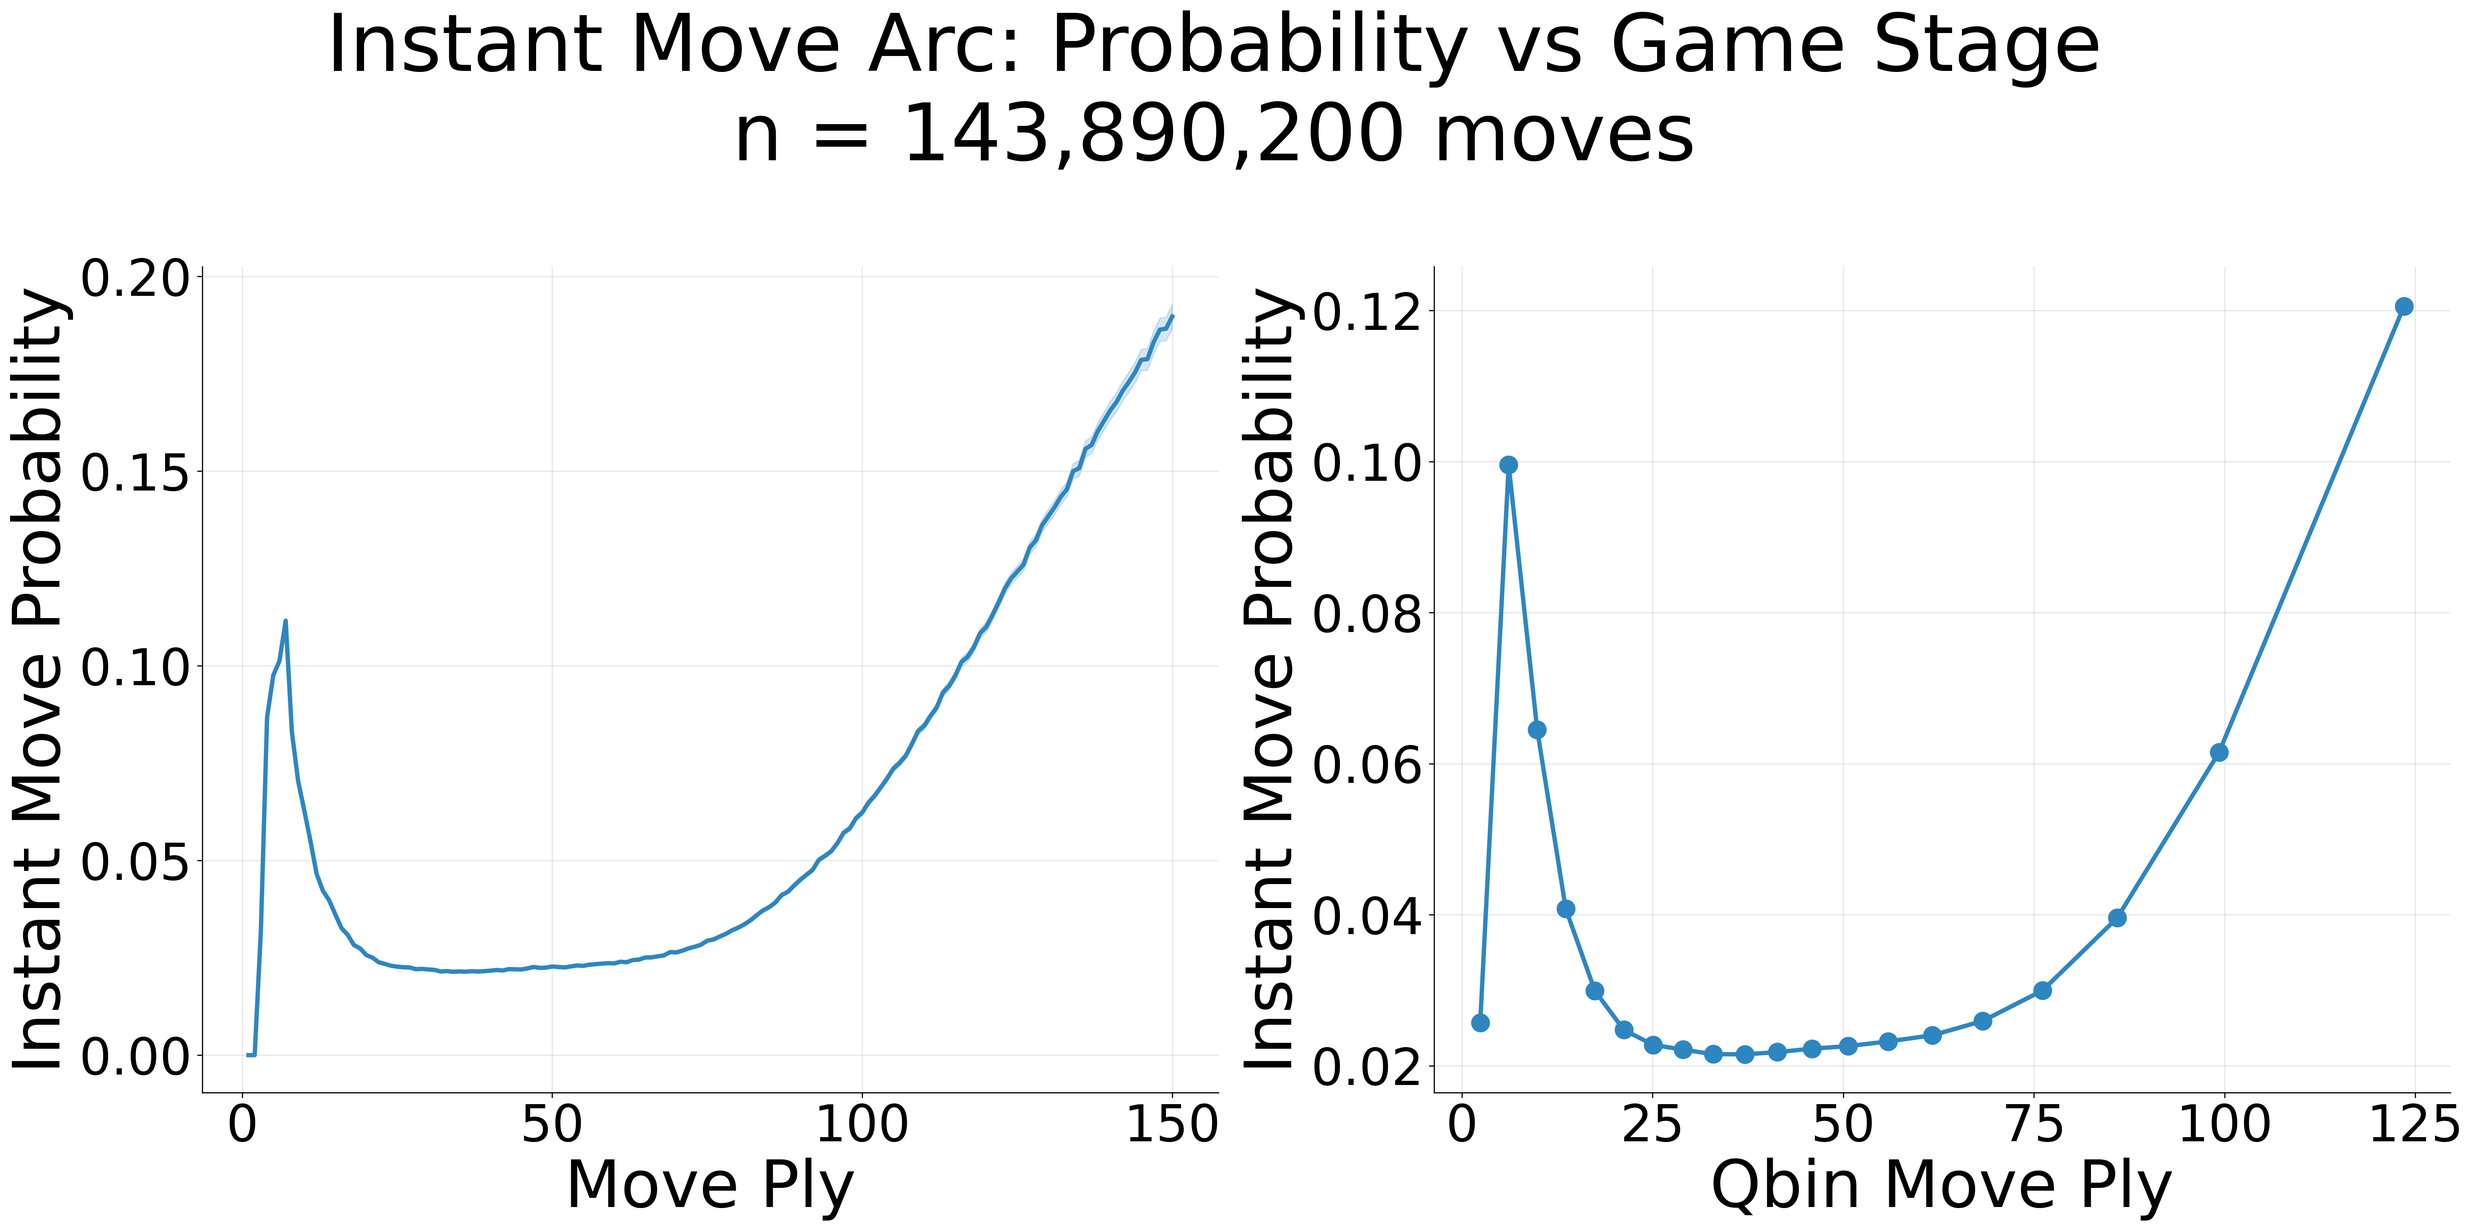
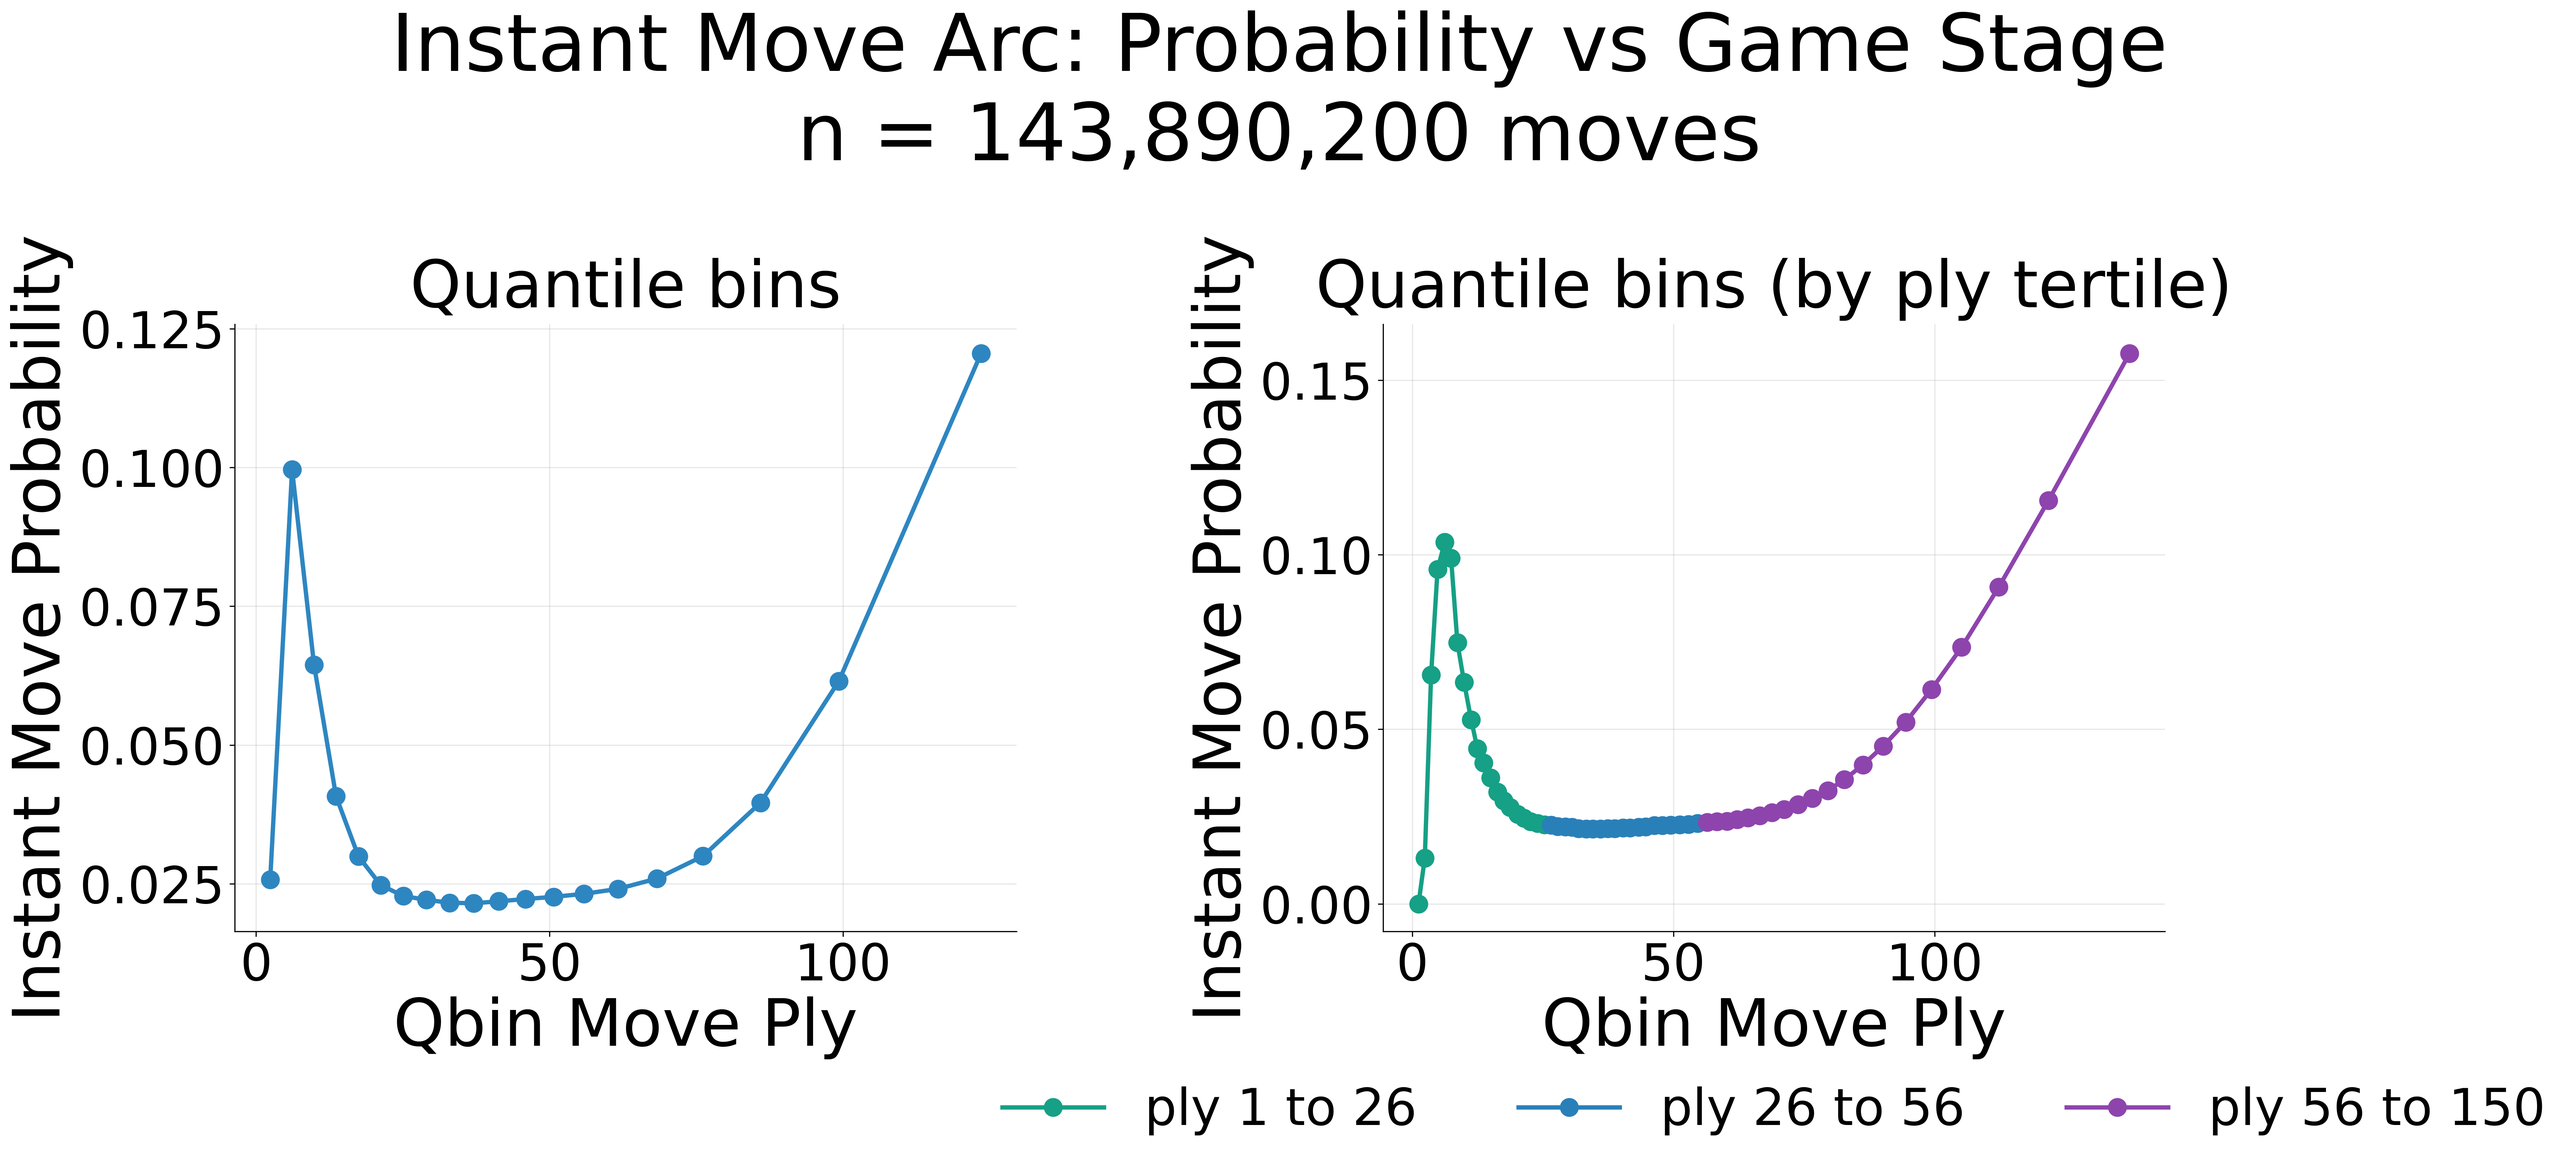
human_analytics dashboards: quantile-only 1×2 layout, legend below plot
Plot changes (utils/analysis.py Analyzer.save_dashboard):
  - Every dashboard is now a fixed 1×2: Quantile bins (global, left) and
    Quantile bins by ply tertile (right). Raw-trend panels removed entirely.
  - Removed the now-dead raw-trend + scatter machinery: plot_raw_trend,
    plot_raw_trend_tertile_segmented, plot_scatter, the raw_trend_df /
    raw_trend_tertile_df / sample_df SQL (incl. the costly 100k-row scatter
    sample that ran on every dashboard), and the layout param + 1x3/1x2/2x2
    branching. Quantile×quantile heatmap option retained.
  - Tertile legend: dropped the "Tertile N" prefix → just "ply <min> to <max>";
    moved the legend below the right panel (ncol = #tertiles, frameless).
  - Dropped layout="1x2" from the two ply-on-x callers (ply_premove,
    movetime_analysis) since the layout is now fixed.

Regenerated all 10 Analyzer dashboards + added mq_vs_logrt.png (the renamed
MQ↔logRT plot replacing the removed mq_vs_clock). voc_budget figures (scatter /
corr matrices, engine-heavy, separate analysis) left unchanged.

human_analytics suite: 29 passed.

diff --git a/human_analytics/utils/analysis.py b/human_analytics/utils/analysis.py
@@ -23,8 +23,6 @@ from .plots import (
     get_isoluminant_cmap,
     plot_heatmap_with_alpha,
     plot_qbin_stats,
-    plot_raw_trend,
-    plot_subset_scatterplot,
 )
 
 _PLY_TERTILE_LEGEND_FALLBACK = {1: "Tertile 1", 2: "Tertile 2", 3: "Tertile 3"}
@@ -114,10 +112,7 @@ class Analyzer:
         # Results to be populated by _run_sql_pipeline()
         self.n_games = 0
         self.n_moves = 0
-        self.raw_trend_df = None
         self.quantile_df = None
-        self.sample_df = None
-        self.raw_trend_tertile_df = None
         self.quantile_tertile_df = None
         self.ply_tertile_bounds_df = None
 
@@ -156,18 +151,7 @@ class Analyzer:
             ORDER BY tertile_id
         """).df()
 
-        # 3. Compute Raw Trend Data
-        self.raw_trend_df = self.conn.execute("""
-            SELECT
-                _x_transformed as x_val,
-                avg(_y_transformed) as mean_y,
-                stddev(_y_transformed) as std_y,
-                count(*) as n
-            FROM _analyzer_view
-            GROUP BY _x_transformed
-        """).df()
-
-        # 4. Compute Quantile-Binned Data (global ranks)
+        # 3. Compute Quantile-Binned Data (global ranks)
         self.quantile_df = self.conn.execute(f"""
             SELECT
                 qbin,
@@ -180,17 +164,6 @@ class Analyzer:
                 FROM _analyzer_view
             )
             GROUP BY qbin
-        """).df()
-
-        self.raw_trend_tertile_df = self.conn.execute("""
-            SELECT
-                ply_tertiles as tertile_id,
-                _x_transformed as x_val,
-                avg(_y_transformed) as mean_y,
-                stddev(_y_transformed) as std_y,
-                count(*) as n
-            FROM _analyzer_view
-            GROUP BY ply_tertiles, _x_transformed
         """).df()
 
         self.quantile_tertile_df = self.conn.execute(f"""
@@ -213,14 +186,6 @@ class Analyzer:
             )
             GROUP BY tertile_id, qbin
             ORDER BY tertile_id, qbin
-        """).df()
-
-        # 5. Pull sample for scatter visualization (sampled in SQL for memory efficiency)
-        print("Sampling moves for scatterplot...")
-        self.sample_df = self.conn.execute("""
-            SELECT _x_transformed as x, _y_transformed as y
-            FROM _analyzer_view
-            USING SAMPLE 100000 ROWS
         """).df()
 
         if self.quantile_heatmap_row:
@@ -246,12 +211,6 @@ class Analyzer:
                 ON x_qbin USING count(*) GROUP BY row_qbin
             """).df().set_index("row_qbin")
 
-    def _tertile_sorted_ids(self) -> list:
-        df = self.raw_trend_tertile_df
-        if df.empty:
-            return []
-        return sorted(df["tertile_id"].unique().tolist())
-
     def _ply_tertile_legend_label(self, tertile_id: int) -> str:
         """Human-readable legend segment from observed move_ply bounds for this tertile."""
         df = self.ply_tertile_bounds_df
@@ -263,45 +222,9 @@ class Analyzer:
         lo_raw = match.iloc[0]["min_ply"]
         hi_raw = match.iloc[0]["max_ply"]
         lo, hi = int(lo_raw), int(hi_raw)
-        tid = int(tertile_id)
         if lo == hi:
-            return f"Tertile {tid} (ply = {lo})"
-        return f"Tertile {tid} ({lo} ≤ ply ≤ {hi})"
-
-    def plot_raw_trend_tertile_segmented(self, ax, *, min_n: int = 5):
-        """
-        Mean Y vs X (distinct transformed X), one curve + CI per ply tertile, all on ``ax``.
-        Legend text includes observed ``move_ply`` bounds per tertile.
-        """
-        if self.raw_trend_tertile_df.empty:
-            raise ValueError(
-                "Ply-tertile-segmented raw trend needs non-empty data with column ply_tertiles "
-                "(run preprocess on move tables)."
-            )
-        tertiles = self._tertile_sorted_ids()
-        x_label = self.x.label + (" (log)" if self.x.is_log else "")
-        y_label = (r"$\log(" + self.y.label + ")$") if self.y.is_log else self.y.label
-
-        for t in tertiles:
-            subset = self.raw_trend_tertile_df[self.raw_trend_tertile_df["tertile_id"] == t]
-            color = PHASE_COLORS.get(int(t), MAIN_COLOR)
-            lbl = self._ply_tertile_legend_label(int(t))
-            plot_raw_trend(
-                ax,
-                subset,
-                x_col="x_val",
-                y_col="mean_y",
-                std_col="std_y",
-                n_col="n",
-                x_label=x_label,
-                y_label=y_label,
-                color=color,
-                label=lbl,
-                min_n=min_n,
-                show_legend=False,
-                ci_legend_label=None,
-            )
-        ax.legend(fontsize=FONT_SIZE_TICKS)
+            return f"ply {lo}"
+        return f"ply {lo} to {hi}"
 
     def plot_quantile_bins_tertile_segmented(self, ax, *, min_n: int = 1):
         """
@@ -335,7 +258,13 @@ class Analyzer:
                 show_legend=False,
                 ci_legend_label=None,
             )
-        ax.legend(fontsize=FONT_SIZE_TICKS)
+        ax.legend(
+            fontsize=FONT_SIZE_TICKS,
+            loc="upper center",
+            bbox_to_anchor=(0.5, -0.18),
+            ncol=len(tertiles),
+            frameon=False,
+        )
 
     def plot_quantile_heatmap(self, ax, *, alpha_mode: str = "log"):
         """
@@ -366,24 +295,6 @@ class Analyzer:
         ax.set_ylabel(f"{self._quantile_heatmap_row_label} quantile bin", fontsize=FONT_SIZE_LABEL, labelpad=48)
         ax.set_title("Quantile × quantile heatmap", fontsize=FONT_SIZE_LABEL, pad=12)
 
-    def plot_raw_trend(self, ax):
-        """Plots the raw trend of mean Y vs X."""
-        x_label = self.x.label + (" (log)" if self.x.is_log else "")
-        y_label = (r"$\log(" + self.y.label + ")$") if self.y.is_log else self.y.label
-
-        plot_raw_trend(
-            ax,
-            self.raw_trend_df,
-            x_col="x_val",
-            y_col="mean_y",
-            std_col="std_y",
-            n_col="n",
-            x_label=x_label,
-            y_label=y_label,
-            min_n=5,
-            show_legend=False,
-        )
-
     def plot_quantile_bins(self, ax):
         """Plots the trend across equal-sized quantile bins."""
         y_label = (r"$\log(" + self.y.label + ")$") if self.y.is_log else self.y.label
@@ -396,21 +307,6 @@ class Analyzer:
             y_label=y_label,
             normalized=False,
             show_legend=False,
-        )
-
-    def plot_scatter(self, ax, n_points=10000):
-        """Plots a density scatterplot."""
-        x_label = self.x.label + (" (log)" if self.x.is_log else "")
-        y_label = (r"$\log(" + self.y.label + ")$") if self.y.is_log else self.y.label
-
-        plot_subset_scatterplot(
-            ax,
-            self.sample_df,
-            x_col="x",
-            y_col="y",
-            x_label=x_label,
-            y_label=y_label,
-            n=n_points,
         )
 
     def save_quantile_heatmap_figure(
@@ -439,7 +335,6 @@ class Analyzer:
     def save_dashboard(
         self,
         output_path,
-        layout="2x2",
         *,
         include_quantile_heatmap: bool = False,
         heatmap_alpha_mode: str = "log",
@@ -447,46 +342,27 @@ class Analyzer:
     ):
         """Generates and saves a publication-ready dashboard.
 
-        ``2x2`` (default): global raw trend | global quantile bins; then the same pair by
-        ``ply_tertiles`` (overlaid tertiles). ``1x3`` keeps raw | quantile | scatter. ``1x2`` is
-        raw | quantile only.
+        Fixed 1×2 layout: **Quantile bins** (global ranks, left) and **Quantile bins
+        (by ply tertile)** (ntile recomputed within each ``ply_tertiles`` segment, right).
+        Raw-trend and scatter panels were removed — quantile binning is the canonical view.
 
-        Set ``include_quantile_heatmap=True`` (with ``layout="2x2"`` only, and
-        ``quantile_heatmap_row='...'`` on construction) to also write the quantile×quantile
-        heatmap as a **separate** PNG next to the dashboard (by default:
-        ``<stem>_quantile_heatmap<ext>`` beside ``output_path``). Pass ``heatmap_output_path``
-        to override the heatmap destination.
+        Set ``include_quantile_heatmap=True`` (with ``quantile_heatmap_row='...'`` on
+        construction) to also write the quantile×quantile heatmap as a **separate** PNG
+        next to the dashboard (default ``<stem>_quantile_heatmap<ext>``). Pass
+        ``heatmap_output_path`` to override the heatmap destination.
         """
         apply_poster_style()
 
-        if include_quantile_heatmap and layout != "2x2":
-            raise ValueError("include_quantile_heatmap is only supported with layout='2x2'.")
         if include_quantile_heatmap and not self.quantile_heatmap_row:
             raise ValueError(
                 "include_quantile_heatmap requires Analyzer(..., quantile_heatmap_row='<column>')."
             )
 
-        if layout == "2x2":
-            fig, axes = plt.subplots(2, 2, figsize=(36, 26))
-            self.plot_raw_trend(axes[0, 0])
-            self.plot_quantile_bins(axes[0, 1])
-            self.plot_raw_trend_tertile_segmented(axes[1, 0])
-            self.plot_quantile_bins_tertile_segmented(axes[1, 1])
-            axes[0, 0].set_title("Raw trend", fontsize=FONT_SIZE_LABEL, pad=12)
-            axes[0, 1].set_title("Quantile bins", fontsize=FONT_SIZE_LABEL, pad=12)
-            axes[1, 0].set_title("Raw trend (by ply tertile)", fontsize=FONT_SIZE_LABEL, pad=12)
-            axes[1, 1].set_title("Quantile bins (by ply tertile)", fontsize=FONT_SIZE_LABEL, pad=12)
-        elif layout == "1x3":
-            fig, axes = plt.subplots(1, 3, figsize=(36, 12))
-            self.plot_raw_trend(axes[0])
-            self.plot_quantile_bins(axes[1])
-            self.plot_scatter(axes[2])
-        elif layout == "1x2":
-            fig, axes = plt.subplots(1, 2, figsize=(24, 12))
-            self.plot_raw_trend(axes[0])
-            self.plot_quantile_bins(axes[1])
-        else:
-            raise ValueError(f"Unsupported layout: {layout}")
+        fig, axes = plt.subplots(1, 2, figsize=(24, 12))
+        self.plot_quantile_bins(axes[0])
+        self.plot_quantile_bins_tertile_segmented(axes[1])
+        axes[0].set_title("Quantile bins", fontsize=FONT_SIZE_LABEL, pad=12)
+        axes[1].set_title("Quantile bins (by ply tertile)", fontsize=FONT_SIZE_LABEL, pad=12)
 
         fig.suptitle(f"{self.title}\nn = {self.n_moves:,} moves", fontsize=FONT_SIZE_LABEL + 10, y=0.98)
 

diff --git a/human_analytics/movetime_analysis.py b/human_analytics/movetime_analysis.py
@@ -86,7 +86,7 @@ def ply_movetime(conn: duckdb.DuckDBPyConnection, src_dir: str | None = None) ->
         filter_query="move_ply <= 150",
         title="Game Stage",
     )
-    analyzer.save_dashboard(_fig(src_dir, "ply_vs_movetime.png"), layout="1x2")
+    analyzer.save_dashboard(_fig(src_dir, "ply_vs_movetime.png"))
 
 
 def clock_movetime(

diff --git a/human_analytics/ply_premove.py b/human_analytics/ply_premove.py
@@ -32,7 +32,7 @@ def main():
     )
     
     figures_dir = os.path.join(src_dir, "figures")
-    analyzer.save_dashboard(os.path.join(figures_dir, "ply_vs_pinstant.png"), layout="1x2")
+    analyzer.save_dashboard(os.path.join(figures_dir, "ply_vs_pinstant.png"))
     
     conn.close()
 
